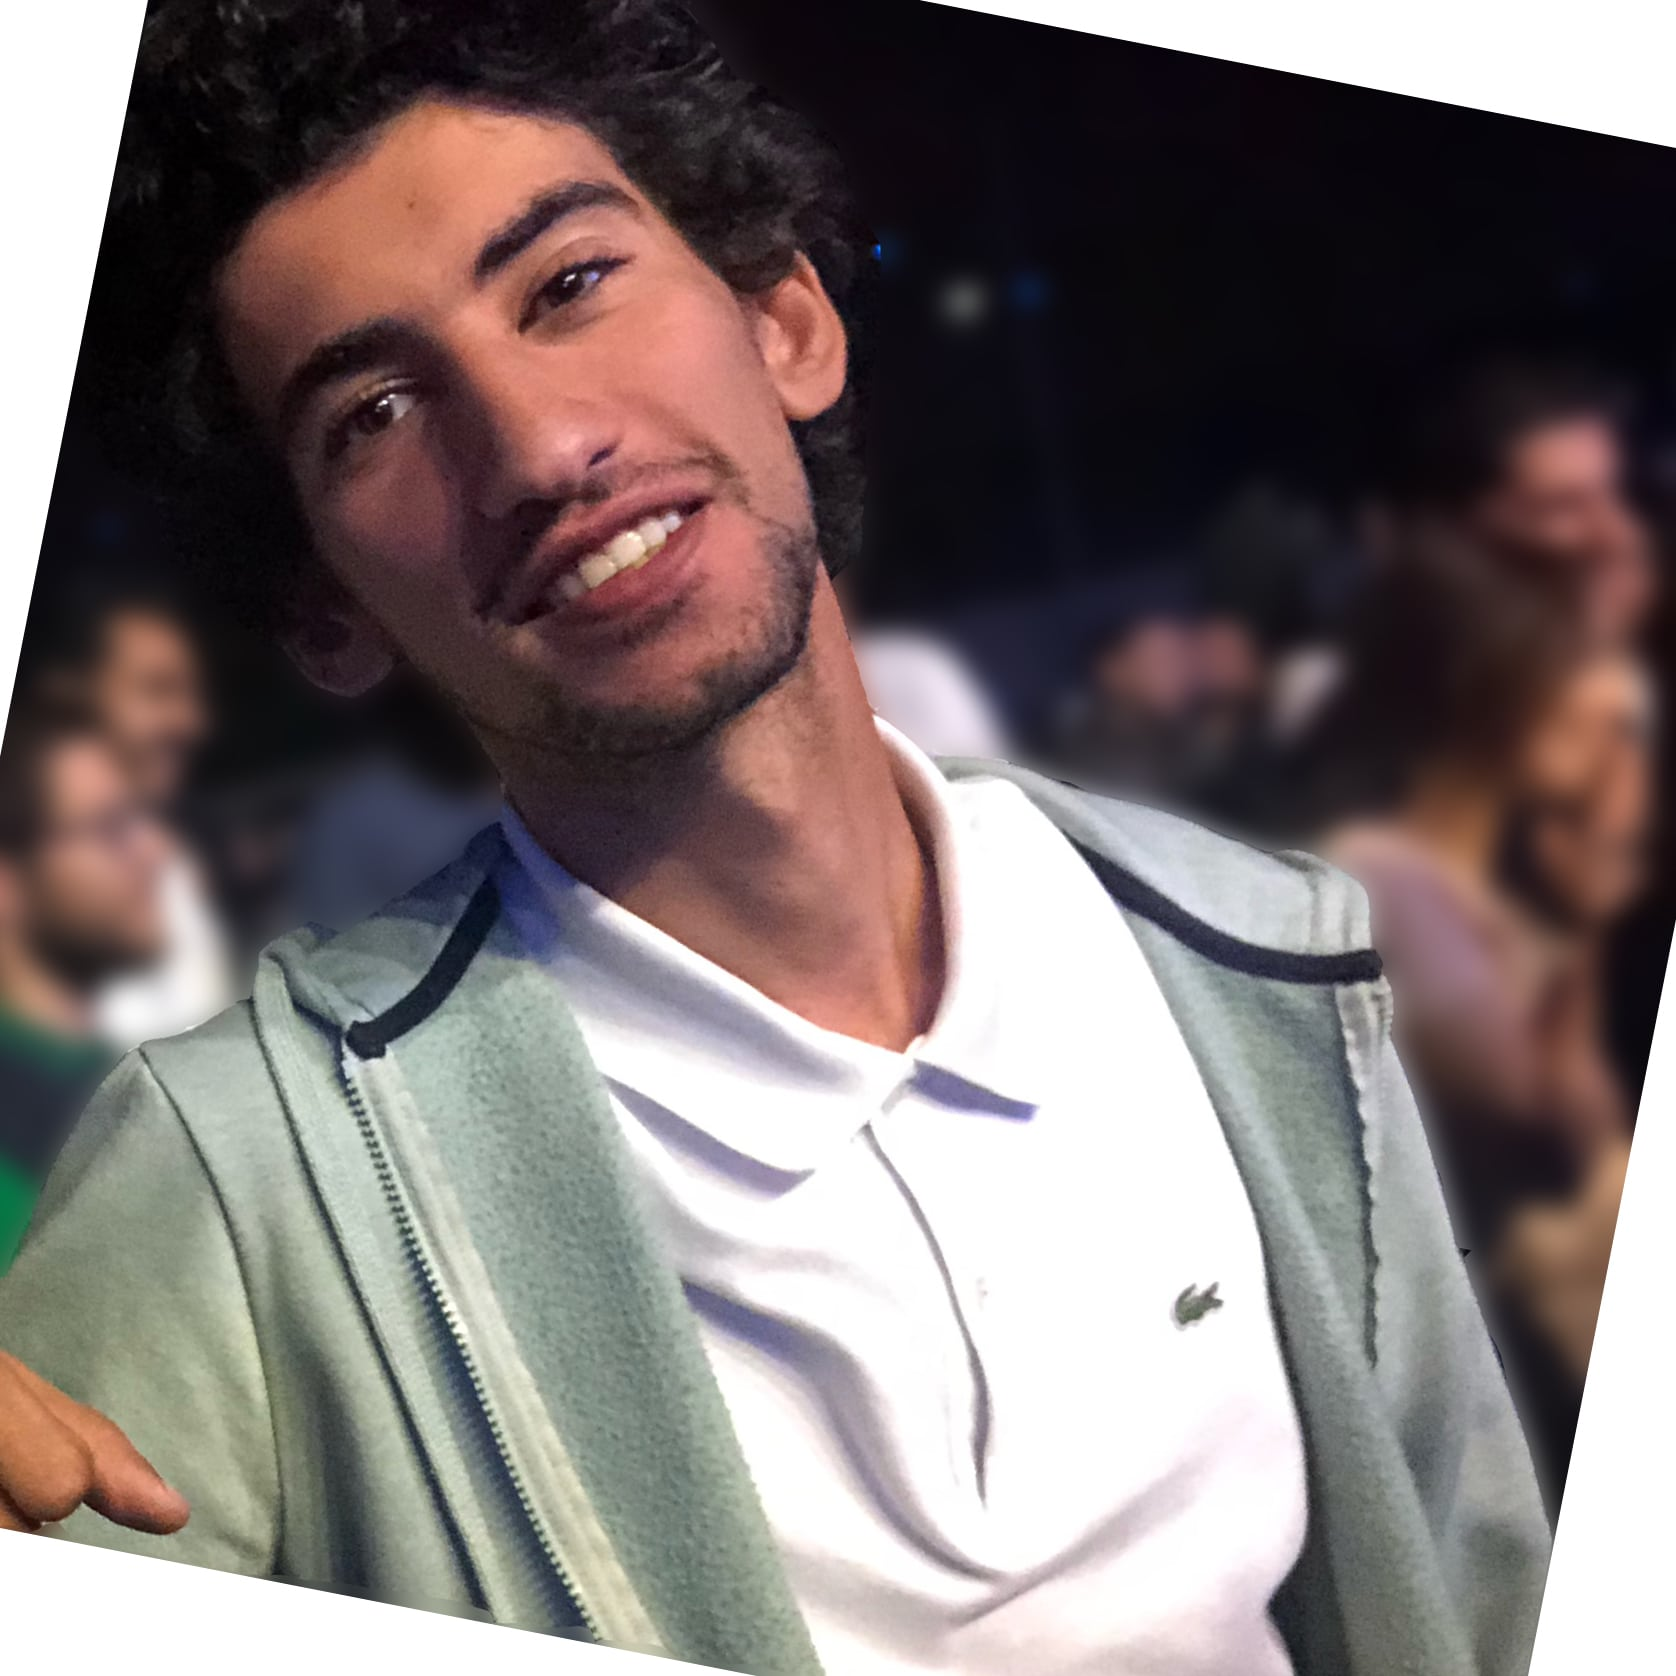
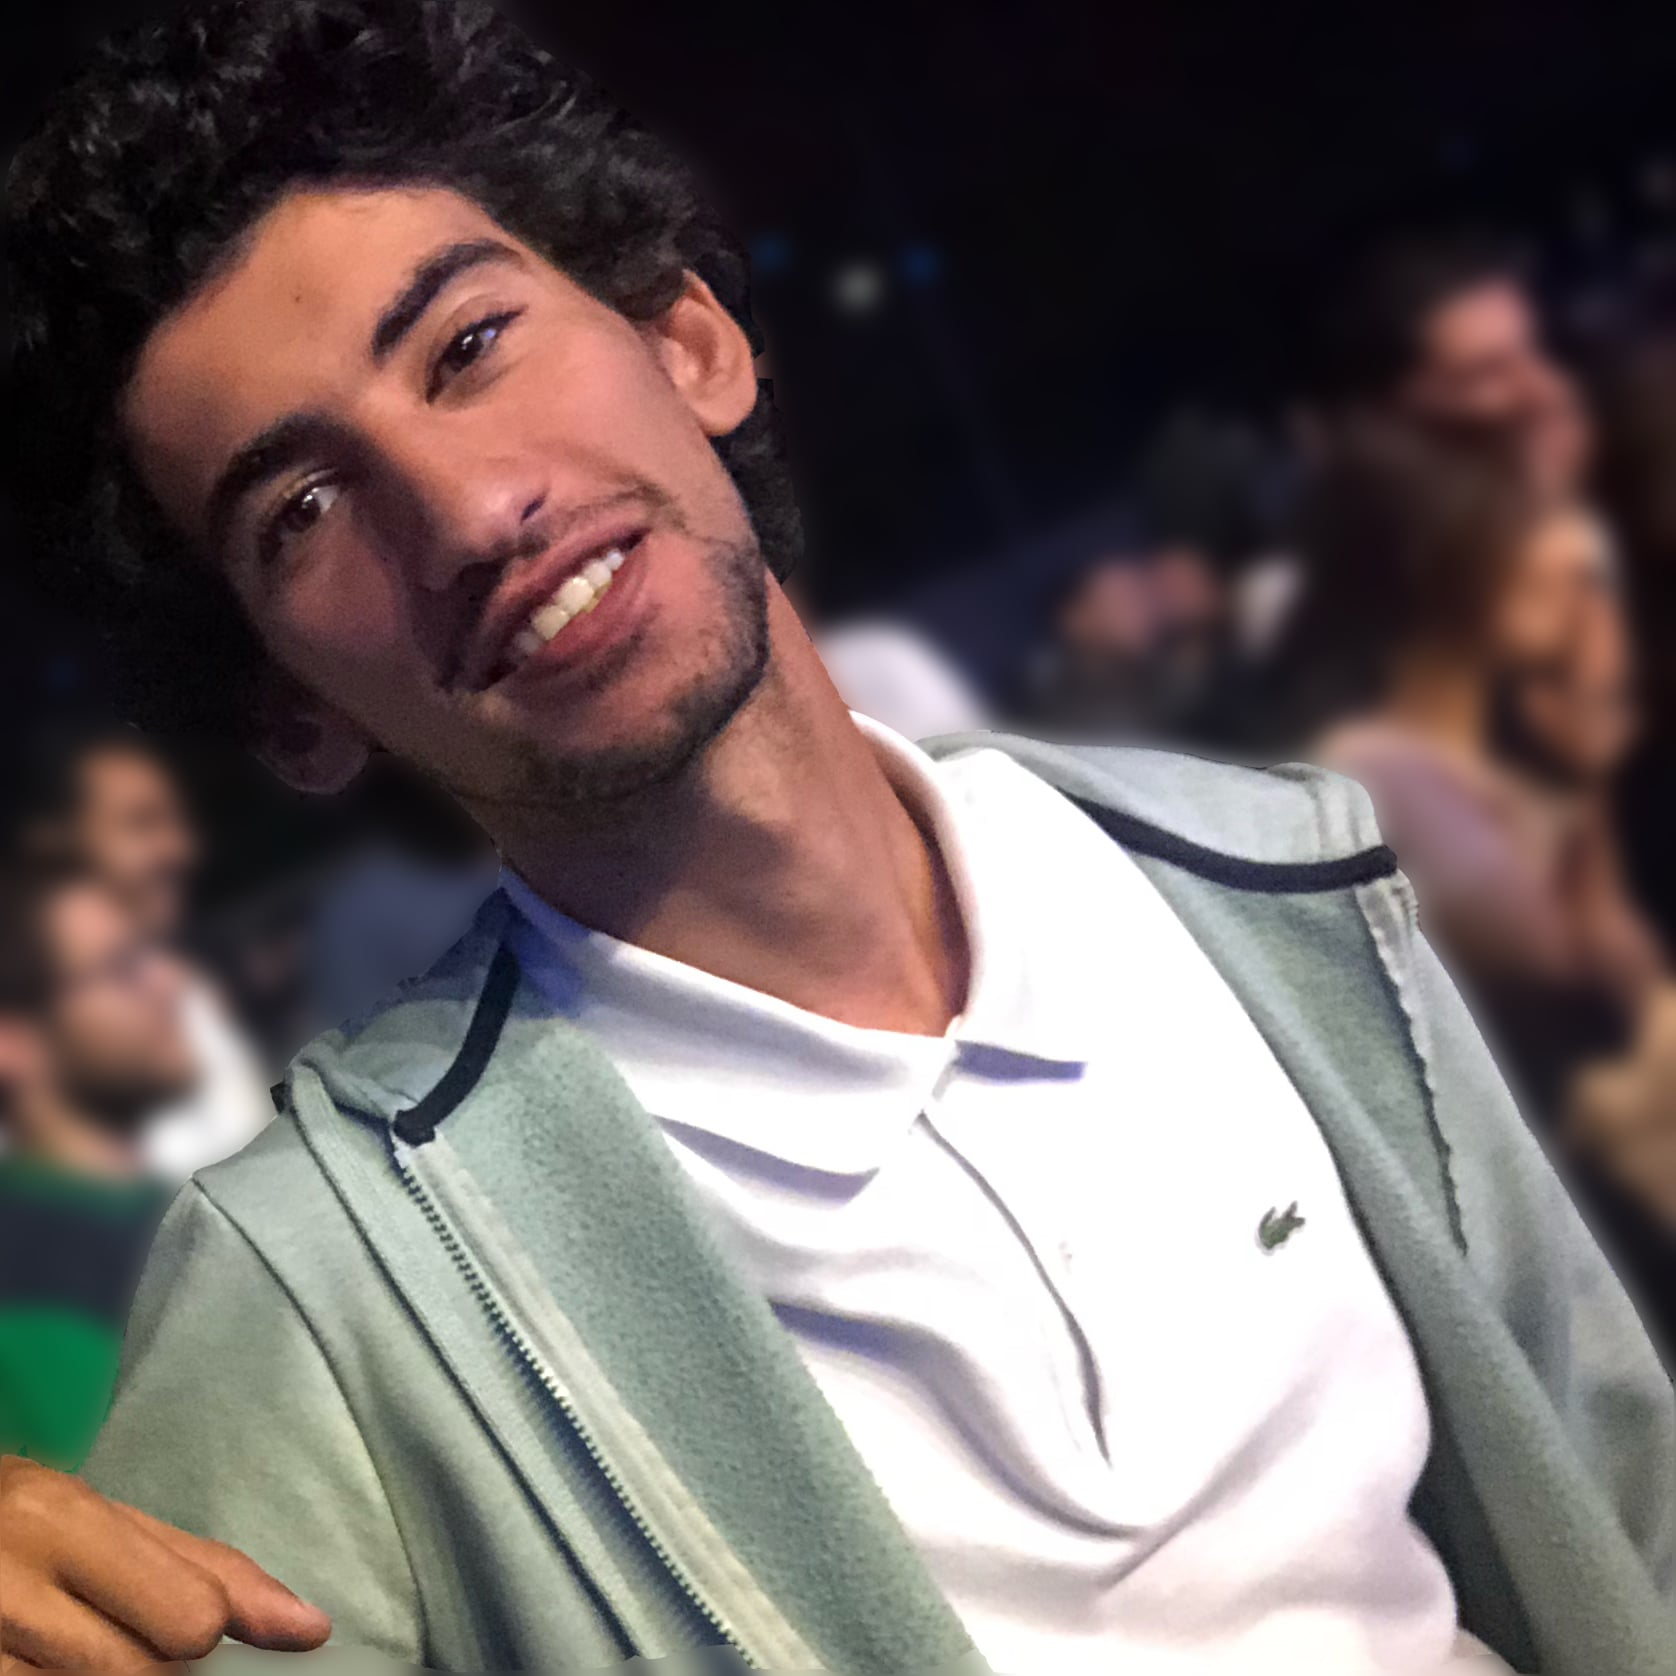
fix: photo crash

diff --git a/pages/amr-moussa/index.vue b/pages/amr-moussa/index.vue
@@ -123,7 +123,7 @@ export default {
   border-radius: 50%;
   border-width: 3px;
   border-style: solid;
-  transform: rotate(10deg);
+  transform: rotate(40deg);
   max-width: 200px;
 }
 .delay {
